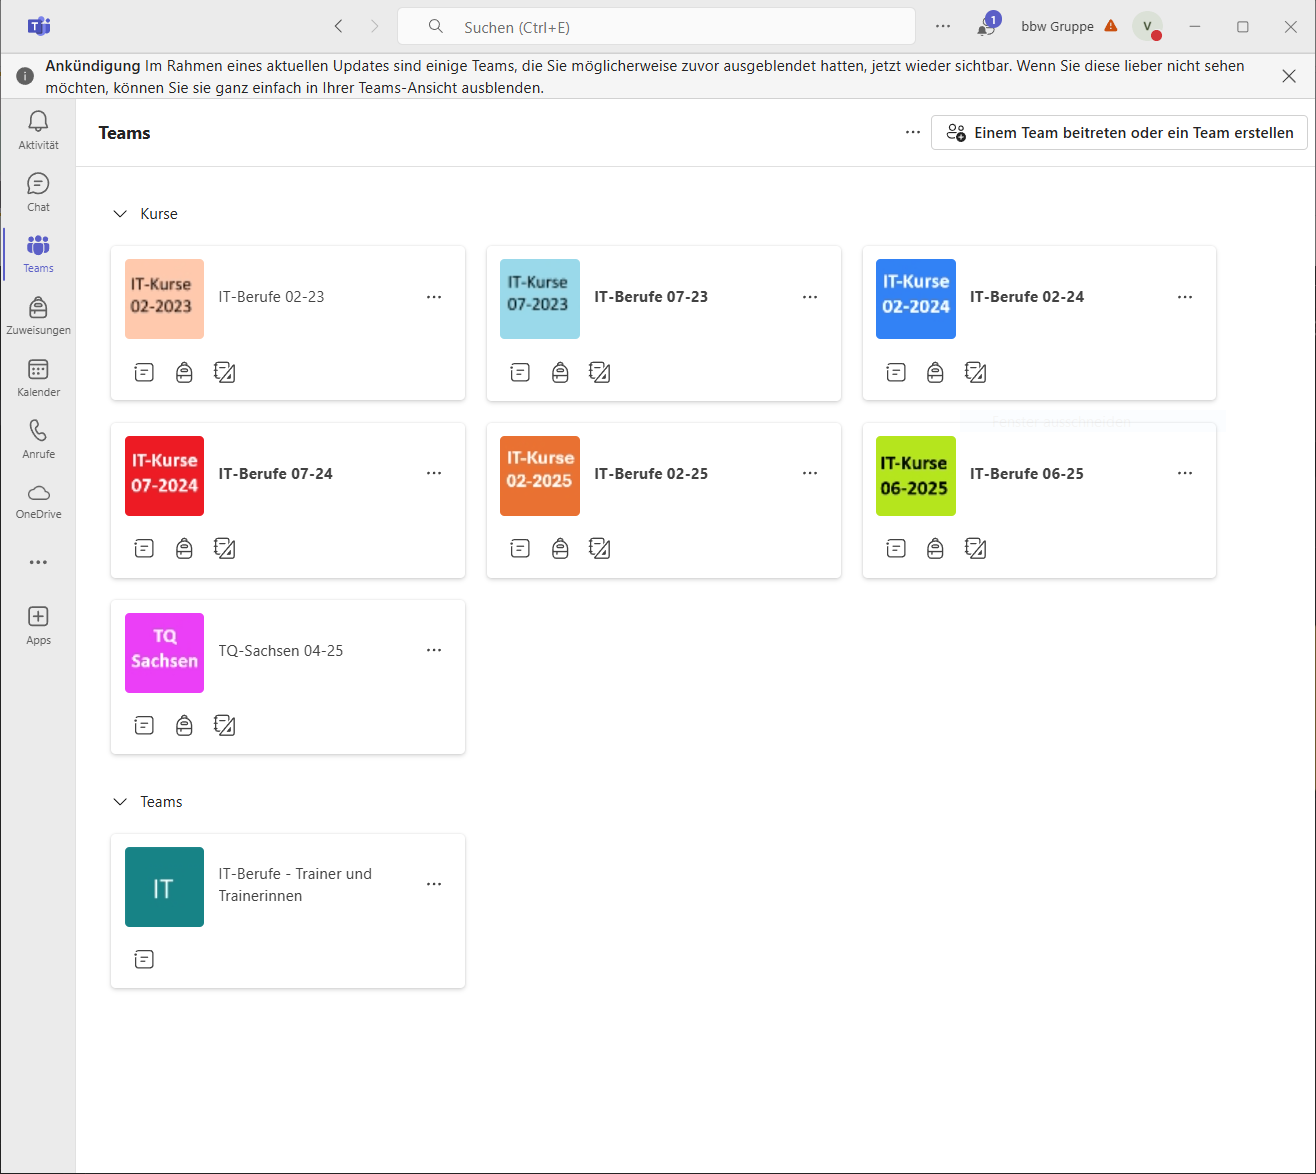
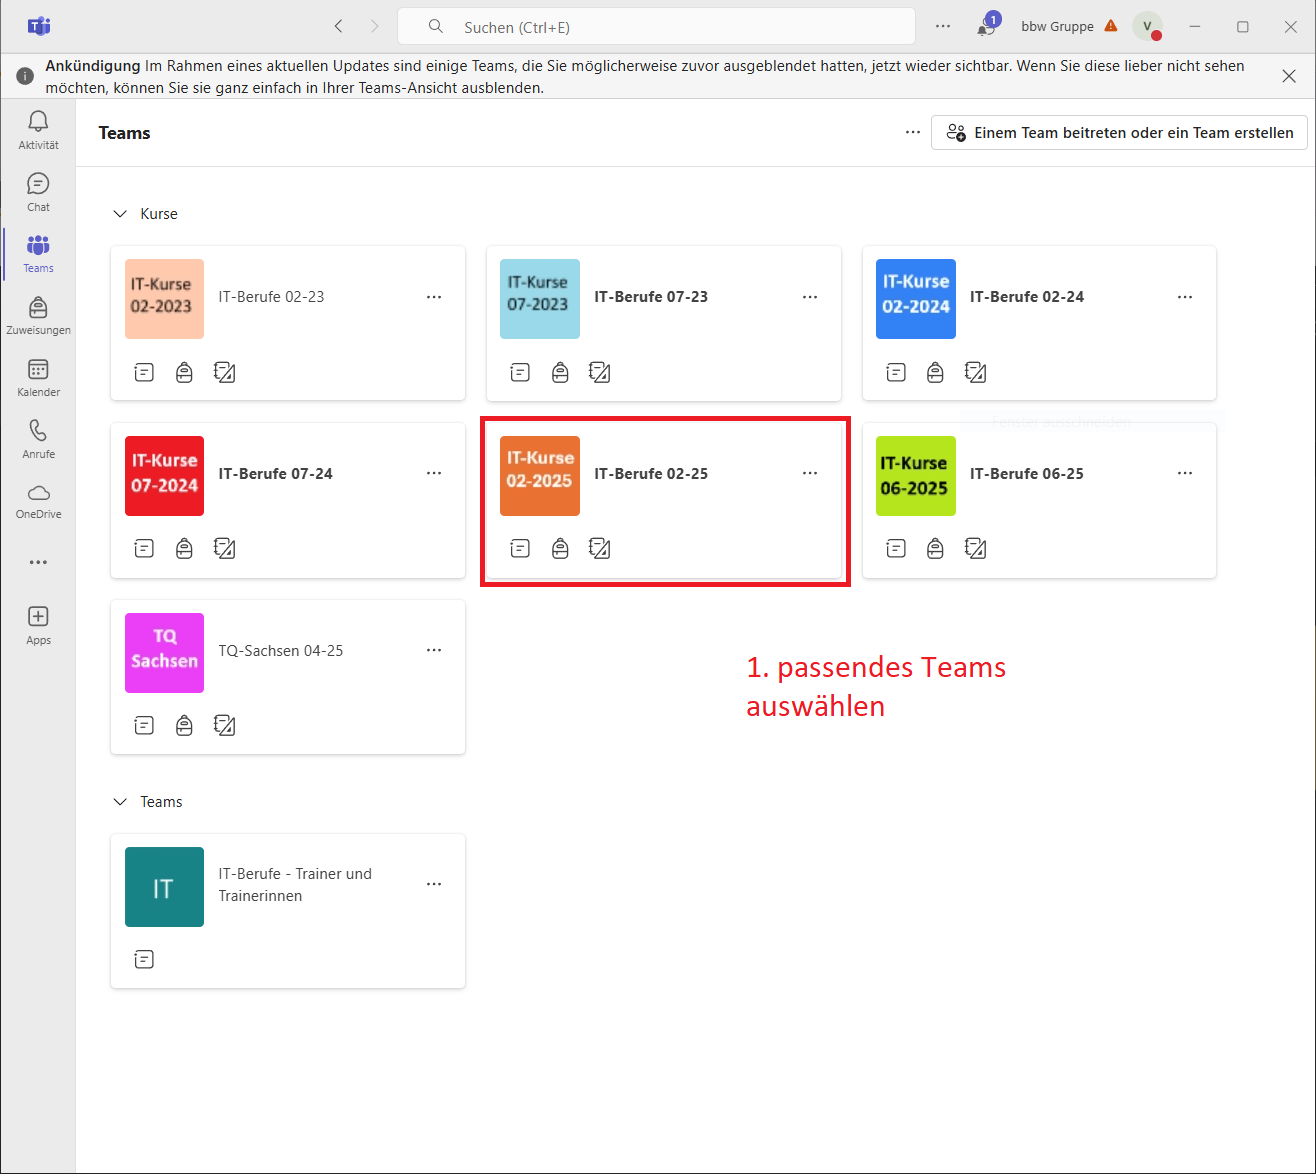
more details

Changed region(s): [[0.3739, 0.3373, 0.6543, 0.5213], [0.5608, 0.552, 0.7789, 0.6133], [0.3427, 0.368, 0.3739, 0.4906]]

diff --git a/main.py b/main.py
@@ -27,6 +27,13 @@ def define_env(env):
     @env.macro
     def python_tutor_button(code_string, title="Code im Debugger ansehen"):
         return generate_pythontutor_button(code_string, title=title)
+    
+    @env.macro
+    def link(text="", url="", new_tab=True, icon=":fontawesome-solid-external-link:"):
+        result = f'[{icon} {text}]({url})'
+        if new_tab:
+            result +='{ target=_blank rel="noopener noreferrer" }'
+        return result
 
 
 def youtube_video_admonition(inner_url, title='Video'):

diff --git a/docs/index.md b/docs/index.md
@@ -13,8 +13,10 @@ hide:
 <div class="grid cards fancy grid--cols-1" markdown >
 - [:material-account-supervisor-outline: **Team**](content/team.md)
 - [:material-av-timer: **Unterrichtszeiten**](content/times.md)
+- [:material-clipboard-list: **Unterricht durchführen**](content/unterrichtsnachweise.md)
 - [:material-clipboard-search: **Unterlagen**](content/unterlagen.md)
 - [:material-fire: **Praktische Tipps**](content/praktische_tipps.md)
+- [:material-list-status: **Lernzielkontrollen**](content/lzk.md)
 </div>
 
 </div>
@@ -23,22 +25,20 @@ hide:
 
 ![](assets/Logo_Qualidy_cmyk.svg)
 
-Hier finden Sie wichtige Informationen zum Unterricht beim **bfz**.
-
-
 <!-- {{ youtube_video("https://www.youtube.com/embed/chPCpYNJe_Q?si=frU_Z_VwSGnPWEPF") }} -->
 
-!!! tip "Checkliste"
+!!! abstract "Checkliste"
 
     **Eine Woche vorher:**
 
-    * In welcher Klasse bin ich?
+    * Thema und Anforderungen bekannt? (wenn nein, im {{ link("LMS nachlesen", "https://lms.bbw.de/") }})
+    * In welcher Klasse bin ich? (wenn unbekannt: [Team](content/team.md#team) anschreiben)
     * Habe ich Zugang zu der Klasse? (wenn nein, [bfz](content/team.md#team) anschreiben)
     * Funktionieren alle Tools bei der Klasse?
 
     **Unterrichtsbeginn:**
 
-    * Raum rechtzeitig starten
+    * Raum rechtzeitig starten (VZ: 15 Minuten vorher, TZ: 30 Minuten vorher)
     * Innerhalb der ersten Stunde: [:fontawesome-solid-external-link: Anwesenheiten eintragen](https://unterrichtsnachweis-service.bfz.de/trainerportal/){ target=_blank rel="noopener noreferrer" }
 
     **Unterrichtsende:**
@@ -50,9 +50,15 @@ Hier finden Sie wichtige Informationen zum Unterricht beim **bfz**.
     * LZK mit den Teilnehmern schreiben.
     * Ergebnisse der LZK an [bfz und Viktor](content/team.md#team) senden.
 
-    ---
+!!! danger "Krankheitsfall"
 
-    [:fontawesome-solid-external-link: Lernmanagmentsystem (LMS) des bfz](https://lms.bbw.de/){ target=_blank rel="noopener noreferrer" }
+    Direkt bei Daniel Schmidt telefonisch melden! <a href="tel: 4917641310888"> +49 176 41310888</a>
+
+!!! info "Wichtig Links"
+
+    {{ link("Lernmanagmentsystem (LMS) des bfz", "https://lms.bbw.de/") }}
+
+    {{ link("Portal für Unterrichtsnachweise", "https://unterrichtsnachweis-service.bfz.de/trainerportal/") }}
 
 
 
@@ -67,25 +73,8 @@ Hier finden Sie wichtige Informationen zum Unterricht beim **bfz**.
 
 </div>
 
+TODO: Prüfung mit Burghard besprechen
 
-TODO: Unterlagen im LMS
+TODO: Alle Bücher zusammenlegen
 
-TODO: Bilder schwärzen
-
-TODO: Bilder mit Pfeilen versehen.
-
-TODO: Unterrichtsnachweis
-
-TODO: Tip: Unterräume öffnen
-
-TODO: Tip: Whiteboard in Teams benutzen
-
-TODO: LZK erstellen
-
-TODO: Unterrichtsnachweis
-
-TODO: Kalender der Klassen
-
-TODO: Lexikon der Prüfungen
-
-TODO: Unterricht starten/beenden (Anwesenheiten)
+TODO: Mail von Burghard

diff --git a/docs/content/lzk.md b/docs/content/lzk.md
@@ -1,0 +1,64 @@
+# Lernzielkontrolle (LZK)
+
+Am Ende des jedes Unterrichts soll eine Lernzielkontrolle durchgeführt werden.
+
+Ich empfehle die LZK im Unterricht paralell zum 
+
+<div class="grid cards" markdown>
+
+-   :material-clock-fast:{ .lg .middle } __Dauer__
+
+    ---
+
+    Eine LZK soll ca. 1h dauern.
+
+-   :100:{ .lg .middle } __Gesamtpunktzahl__
+
+    ---
+
+    Die Maximalpunktzahl soll genau 100 sein.
+
+-   :material-format-font:{ .lg .middle } __Erlaubte Fragetypen__
+
+    ---
+
+    * Single Choise
+    * Lückentexte füllen
+    * Freitextantworten (Bepunktungsschema vorher überlegen)
+
+-   :simple-googleforms:{ .lg .middle } __Tools__
+
+    ---
+
+    Bei der ersten Durchführung kann ein Tool wie Microsoft Forms oder Google Forms verwndet werden.
+
+    Für weitere Durchführungen kann ein LZK im LMS angelegt werden. Diese wird von bfz-Team eingepflegt.
+
+-   :material-scale-balance:{ .lg .middle } __Ergebnisse berechnen__
+
+    ---
+
+    Erstelle eine Tabelle mit den Namen und Punktzahlen aller Teilnehmer.
+
+    Berechne das arithmetische Mittel und die Standardabweichung (der Grundgesamtheit) und den Variationskoeffizienten (der Grundgesamtheit)
+
+-   :material-send-check:{ .lg .middle } __Ergebnisse weiterleiten__
+
+    ---
+
+    Leite alle Ergebnisse an das [Team des bfz und an Viktor](team.md) weiter.
+
+    * Tabelle mit Namen und Punktzahlen
+    * Kennzahlen
+    * Link zur LZK
+    * Einzelergebnisse alle Teilnehmer
+
+</div>
+
+!!! example "Beispiele"
+
+    {{ link("LZK Powershell", "https://forms.office.com/e/sJMvUwmKXY")}}
+
+    {{ link("LZK Docker", "https://forms.office.com/e/93C8rsiWuj")}}
+
+    {{ link("LZK C#", "https://forms.office.com/e/r0ik8qzfsh")}}

diff --git a/docs/content/praktische_tipps.md b/docs/content/praktische_tipps.md
@@ -75,3 +75,27 @@
     Ein anderes Whiteboard-Tool ist [:fontawesome-solid-external-link: Excalidraw](https://excalidraw.com/){ target=_blank rel="noopener noreferrer" }. Auch hier kann ein Link über die :octicons-share-android-16:-Taste erstellt werden.     
 
     ![alt text](../assets/excalidraw.png)
+
+!!! tip "Kalender der Klassen"
+    Im {{link("LMS", "https://lms.bbw.de/")}} findet man Unter dem Reiter "IT-BERUFE" und dann "FACHINFORMATIKER/IN AE" oder "FACHINFORMATIKER/IN SI" eine Kachel zu jedem einzelnen Kurs. 
+
+    Dort findet man unter der Kachel "4. Kalender" die Kalender der Klassen. So kann man sehen, wo sich die Teilnehmer gerade inhaltlich befinden.
+
+!!! tip "Prpfungen und Abkürzungen"
+    Die Ausbildung der Teilnehmer dauert 2 Jahre.
+
+    Es gibt zwei Arten von Auzubildende
+
+    Die Ausbildung ist in 6 Module aufgeteilt.
+
+    Die ersten 5 Module bestehen aus ca. 8 Wochen Theorieunterricht (mit uns) und 6 Wochen Praxis in einem Praktikumsbetrieb (ohne uns).
+    Am Ende der Module schreiben alle Teilnehmer eine Modulprüfung. Für die TQ-Teilnehmer ist das Bestehen dieser Prüfungen verpflichtend, damit sie an den Abschlussprüfungen teilnehmen können. Bei diesen wird die Tertialprüfung stattdessen "Leistungskontrolle" genannt.
+
+    Im sechsten und letzten Modul ist der Anteild er Praxisphase größer. Nur die TQ-Teilnehmer schreiben 
+
+    | Abkürzung | Bedeutung |
+    |-|-|
+    | TQ | Teilqualifikation |
+    | TP | Terialprüfung (am Ende jedes Moduls, insgesamt 5-6) |
+    | AP1 | Zwischenprüfung der IHK am Ende von Modul 3 |
+    | AP2 | Abschlussprüfung der IHK am Ende von Modul 6 |

diff --git a/docs/content/unterlagen.md b/docs/content/unterlagen.md
@@ -1,5 +1,22 @@
 # Unterlagen
 
+## Was muss unterrichtet werden?
+
+Die jeweiligen Inhalte, die im Modul unterrichtet werden sollen, findet man im
+{{ link("LMS (Lernmanagmentsystem)", "https://lms.bbw.de/")}}. Klappe zuerst
+den Reiter "IT-Berufe" aus und wähle dann das passende Lernmodul. Klicke dann
+auf die Kachel "MX-Trainer", wobei "X" die jeweilige Nummer des Moduls ist.
+
+![alt text](../assets/lms_trainer.png)
+
+Hist ist eine Übersicht auf aller Themen des Moduls. Klicke auf eine von diesen, um mehr Informationen zu erhalten.
+
+![alt text](../assets/lms_trainer_inhalt.png)
+
+Hier befinden sich die erwarteten Inhalte des Unterricht. Teilwese finden sich hier auch Literaturverweise.
+
+![alt text](../assets/lms_trainer_inhalt_inhalt.png)
+
 ## Simple Club
 
 Auf [:fontawesome-solid-external-link: dieser Webseite](https://lms.bbw.de/course/view.php?id=4633&section=1){ target=_blank rel="noopener noreferrer" } kann man unter dem Link "Simple Club allgemein" Lerninhalte finden.
@@ -17,3 +34,10 @@ Auf [:fontawesome-solid-external-link: dieser Webseite](https://lms.bbw.de/cours
 ![](../assets/teams_dateien.png)
 
 ## Unterlagen im LMS
+Teilweise können im LMS auch Inhalte zu den Fächern gefunden werden. Gehe dazu ins Lernmodul und klappe den inneren Reiter aus.
+
+![alt text](../assets/lms_inhalte.png)
+
+## Unterlagen von Qualidy
+
+Qualidy entwickelt derzeit auch Unterlagen. Dies ist noch in Arbeit.

diff --git a/docs/content/unterrichtsnachweise.md b/docs/content/unterrichtsnachweise.md
@@ -1,0 +1,30 @@
+# Unterricht durchführen
+
+## Teams
+
+Über {{ link("diesen Link", "https://www.microsoft.com/de-de/microsoft-teams/download-app#for-desktop") }} erhalten Sie die Möglichkeit, sich die Teams-App für Ihren Desktop herunterzuladen.
+
+Sie müssen bitte die Version für Beruf, Schule und Studium herunterladen, damit Sie sich mit Ihren bfz-Zugangsdaten anmelden können.
+
+Wichtig: Nutzen Sie Ihre bfz-Zugangsdaten, da Sie sonst keinen Zugriff auf Ihre Teams erhalten!
+
+## Unterricht starten
+
+Am Tag Ihres Unterrichts starten SIE (nicht die Teilnehmenden) eine Besprechung in Ihrem 
+Klassenzimmer. Wählen Sie zuerst das passende Team aus.
+
+![](../assets/allteams.png)
+
+Danach können Sie die passende Klasse auswählen. Starten Sie den Unterricht in VZ-Klassen 15 Minuten und in TZ-Klassen 30 Minuten vor Unterrichtsstart.
+
+![](../assets/besprechung starten.png)
+
+## Unterrichtsnachweis
+
+{{ youtube_video ("https://www.youtube.com/embed/iSqt8AvLWQI?si=dcaLX-RCtHBPHEmB") }}
+
+## Hospitation und Qualitätsprüfung
+
+Am Unterricht kann jederzeit ein Mitglied des [Teams](team.md) teilnehmen. Auch eine Befragung der Teilnehmer zum Unterricht (inhaltlich und didaktisch) kann jederzeit stattfinden. Ziel ist eine stetige Verbesserung des Unterrichts.
+
+Viktor hat sehr viel Erfahrung im Umgang mit den Teilnehmern. Bei didaktsichen Fragen kann mit ihm Rücksprache gehalten werden.

diff --git a/docs/content/times.md b/docs/content/times.md
@@ -18,7 +18,7 @@
 
 [:fontawesome-solid-external-link: Unterrichtszeiten von Vollzeitklassen](https://lms.bbw.de/pluginfile.php/283724/mod_resource/content/1/Zeitschema_IT-Berufe_VZ.pdf){ target=_blank rel="noopener noreferrer" }
 
-Bei der **TQ-Sachsen** handelt es sich um eine Vollzeitklasse, bei der der Unterricht um 7:30 Uhr beginnt und deerr Plan somit um eine halbe Stunde verschoben ist.
+Bei der **TQ-Sachsen** handelt es sich um eine Vollzeitklasse, bei der der Unterricht um 7:30 Uhr beginnt und der Plan somit um eine halbe Stunde verschoben ist.
 
 In der *flexiblen Selbstlernphase* ist der Trainer nicht anwesend. Hier soll den Teilnehmern eine Aufgabe gegeben werden.
 
